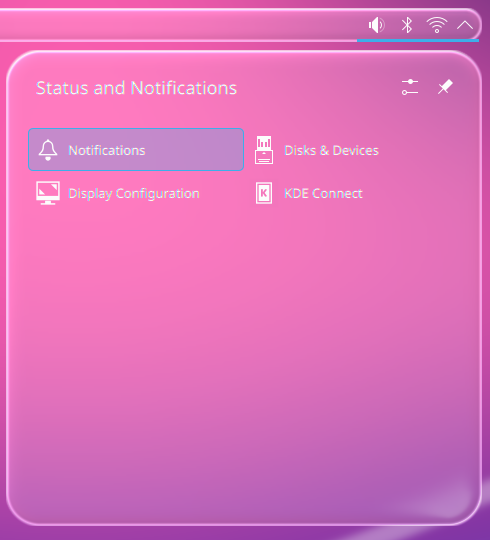
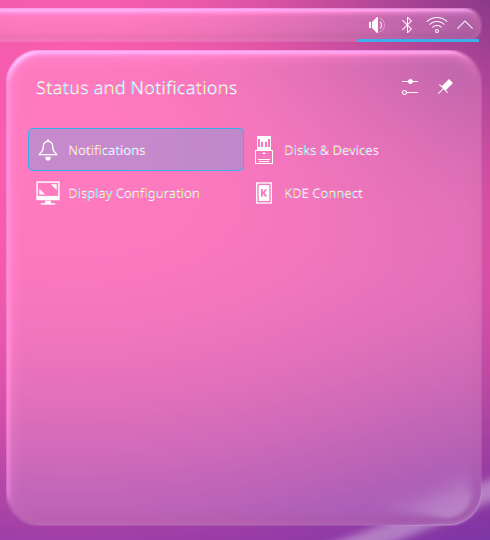
KDE: soft, light-facing rim instead of an even outline
RimEvenness 0, RimIntensity 0.22, RimWidth 10: a wide, faint glow on the
edge facing the light that fades out on the shaded side. Retake the
screenshots.

diff --git a/kde-liquid-glass/src/liquidglass.cpp b/kde-liquid-glass/src/liquidglass.cpp
@@ -111,11 +111,11 @@ LiquidGlassEffect::LiquidGlassEffect()
         {"TintStrength", "tint_strength", 0.15},
         {"SpecularIntensity", "specular_intensity", 0.0},
         {"Shininess", "shininess", 42.0},
-        {"RimWidth", "rim_width", 5.0},
-        {"RimIntensity", "rim_intensity", 0.6},
+        {"RimWidth", "rim_width", 10.0},
+        {"RimIntensity", "rim_intensity", 0.22},
         {"RimDirectionalPower", "rim_directional_power", 1.7},
         {"RimPower", "rim_power", 6.0},
-        {"RimEvenness", "rim_evenness", 0.5},
+        {"RimEvenness", "rim_evenness", 0.0},
         {"RimLightColorIntensity", "rim_light_color_intensity", 2.5},
         {"SheenIntensity", "sheen_intensity", 0.1},
         {"LightAngle", "light_angle_deg", 120.0},

diff --git a/kde-liquid-glass/README.md b/kde-liquid-glass/README.md
@@ -122,8 +122,8 @@ qdbus6 org.kde.KWin /KWin reconfigure
 | ProfileShapeN | 3.4 | dome curvature (superellipse n) |
 | EdgeSmoothing | 2.4 | |
 | ChromaStrength | 0.006 | chromatic aberration |
-| RimWidth / RimIntensity / RimPower / RimDirectionalPower / RimLightColorIntensity | 5 / 0.6 / 6 / 1.7 / 2.5 | |
-| RimEvenness | 0.5 | 0 = rim only on the lit edge, 1 = even all the way round |
+| RimWidth / RimIntensity / RimPower / RimDirectionalPower / RimLightColorIntensity | 10 / 0.22 / 6 / 1.7 / 2.5 | |
+| RimEvenness | 0 | 0 = rim only on the lit edge, 1 = even all the way round |
 | EdgeClarity | 0.6 | 0–1, how sharp (unblurred) the lensed background is in the bezel |
 | EdgeShading | 0.08 | 0–1, light/dark shading across the bezel from its curvature |
 | SpecularIntensity / Shininess | 0 / 42 | |
